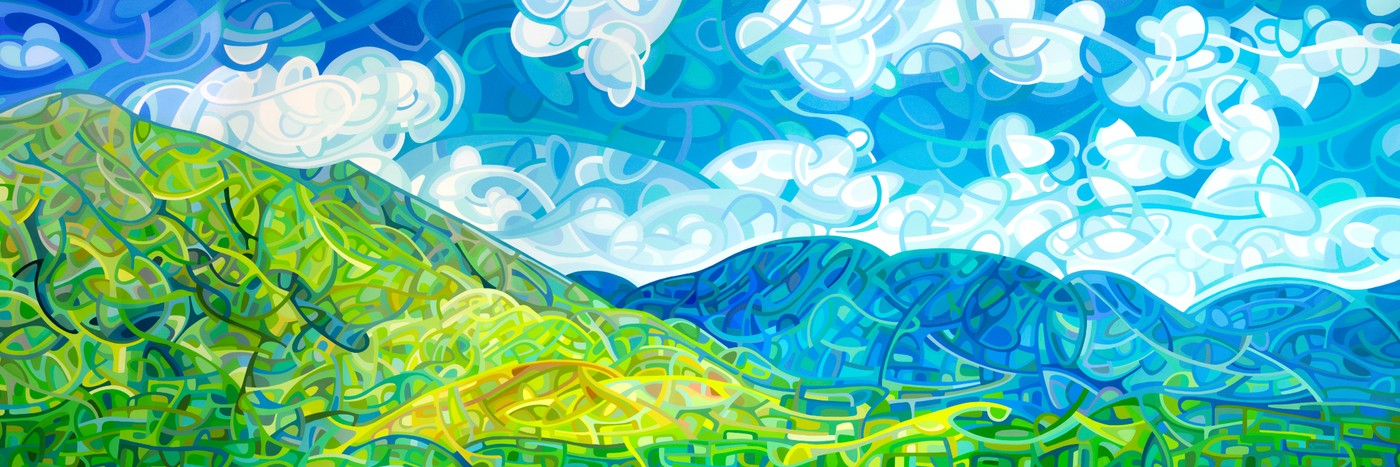
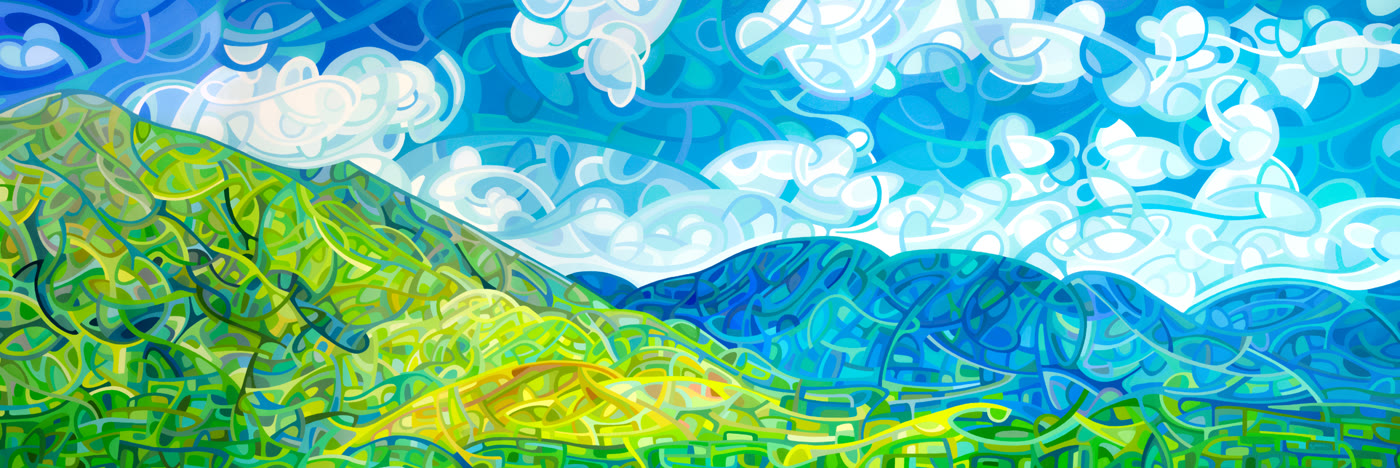
chore: web-optimize batch 3 2014-2017 (13 paintings) [v2.7.93]

diff --git a/html/2015-july-progression.html b/html/2015-july-progression.html
@@ -2,7 +2,7 @@
 <html lang="en">
 <head>
 <link rel="stylesheet" href="../css/style.css">
-<!-- ALP Design v2.7.88 | Detail Page | Generated: 2026-09-10 -->
+<!-- ALP Design v2.7.93 | Detail Page | Generated: 2026-09-10 -->
 <meta charset="UTF-8">
 <meta name="description" content="2015 July Progression () - In the height of Summer the many greens and blues of the forest collide gently on their inexorable march to the fiery reds an...">
 <meta property="og:title" content="July Progression - Mandy Budan Art">
@@ -59,7 +59,7 @@
 <main>
   <section class="detail">
   <div class="detail-grid">
-    <div class="detail-image"><img src="../images/2015-july-progression.jpg" alt="In the height of Summer the many greens and blues of the forest collide gently on their inexorable march to the fiery reds..."></div>
+    <div class="detail-image"><img src="../images/2015-july-progression_detail.jpg" alt="In the height of Summer the many greens and blues of the forest collide gently on their inexorable march to the fiery reds..."></div>
     <div class="detail-info">
       <h1>July Progression</h1>
       <div class="detail-meta">2015 - 12 x 16 - acrylic on wood<span class="soldbadge"></span></div>

diff --git a/html/2015-salmon-ridge.html b/html/2015-salmon-ridge.html
@@ -2,7 +2,7 @@
 <html lang="en">
 <head>
 <link rel="stylesheet" href="../css/style.css">
-<!-- ALP Design v2.7.88 | Detail Page | Generated: 2026-09-10 -->
+<!-- ALP Design v2.7.93 | Detail Page | Generated: 2026-09-10 -->
 <meta charset="UTF-8">
 <meta name="description" content="2015 Salmon Ridge () - A fall day high above a placid river. The muted colours on the far shore provide a gentle contrast to the trees on the ridge.">
 <meta property="og:title" content="Salmon Ridge - Mandy Budan Art">
@@ -59,7 +59,7 @@
 <main>
   <section class="detail">
   <div class="detail-grid">
-    <div class="detail-image"><img src="../images/2015-salmon-ridge.jpg" alt="A fall day high above a placid river. The muted colours on the far shore provide a gentle contrast to the trees on the rid..."></div>
+    <div class="detail-image"><img src="../images/2015-salmon-ridge_detail.jpg" alt="A fall day high above a placid river. The muted colours on the far shore provide a gentle contrast to the trees on the rid..."></div>
     <div class="detail-info">
       <h1>Salmon Ridge</h1>
       <div class="detail-meta">2015 - 11 x 14 - acrylic on wood<span class="soldbadge"></span></div>

diff --git a/html/2017-awakening.html b/html/2017-awakening.html
@@ -2,7 +2,7 @@
 <html lang="en">
 <head>
 <link rel="stylesheet" href="../css/style.css">
-<!-- ALP Design v2.7.88 | Detail Page | Generated: 2026-09-10 -->
+<!-- ALP Design v2.7.93 | Detail Page | Generated: 2026-09-10 -->
 <meta charset="UTF-8">
 <meta name="description" content="2017 Awakening () - The morning sun rises over the lake chasing the deep blues with peaches and pinks, reaching with warm tendrils into the corners of l...">
 <meta property="og:title" content="Awakening - Mandy Budan Art">
@@ -59,7 +59,7 @@
 <main>
   <section class="detail">
   <div class="detail-grid">
-    <div class="detail-image"><img src="../images/2017-awakening.jpg" alt="The morning sun rises over the lake chasing the deep blues with peaches and pinks, reaching with warm tendrils into the co..."></div>
+    <div class="detail-image"><img src="../images/2017-awakening_detail.jpg" alt="The morning sun rises over the lake chasing the deep blues with peaches and pinks, reaching with warm tendrils into the co..."></div>
     <div class="detail-info">
       <h1>Awakening</h1>
       <div class="detail-meta">2017 - 24 x 30 - acrylic on wood<span class="soldbadge"></span></div>

diff --git a/html/2014-after-the-rain.html b/html/2014-after-the-rain.html
@@ -2,7 +2,7 @@
 <html lang="en">
 <head>
 <link rel="stylesheet" href="../css/style.css">
-<!-- ALP Design v2.7.88 | Detail Page | Generated: 2026-09-10 -->
+<!-- ALP Design v2.7.93 | Detail Page | Generated: 2026-09-10 -->
 <meta charset="UTF-8">
 <meta name="description" content="2014 After The Rain () - The colours are richer, the light more intense after the spring rain sweeps through the forest. The new-found sun pulls jewel t...">
 <meta property="og:title" content="After the Rain - Mandy Budan Art">

diff --git a/html/2015-summer-medley.html b/html/2015-summer-medley.html
@@ -2,7 +2,7 @@
 <html lang="en">
 <head>
 <link rel="stylesheet" href="../css/style.css">
-<!-- ALP Design v2.7.88 | Detail Page | Generated: 2026-09-10 -->
+<!-- ALP Design v2.7.93 | Detail Page | Generated: 2026-09-10 -->
 <meta charset="UTF-8">
 <meta name="description" content="2015 Summer Medley () - A perfect day - soft warm sunlight, cool blue breezes, the steadfast reds in the trunk and the playful greens in the leaves come...">
 <meta property="og:title" content="Summer Medley - Mandy Budan Art">

diff --git a/html/2016-one-fine-day.html b/html/2016-one-fine-day.html
@@ -2,7 +2,7 @@
 <html lang="en">
 <head>
 <link rel="stylesheet" href="../css/style.css">
-<!-- ALP Design v2.7.88 | Detail Page | Generated: 2026-09-10 -->
+<!-- ALP Design v2.7.93 | Detail Page | Generated: 2026-09-10 -->
 <meta charset="UTF-8">
 <meta name="description" content="2016 One Fine Day () - One of those days where there's a taste of frost in the air, leaves crackle underfoot and the sun bounces off the many colours of...">
 <meta property="og:title" content="One Fine Day - Mandy Budan Art">

diff --git a/html/2015-last-call.html b/html/2015-last-call.html
@@ -2,7 +2,7 @@
 <html lang="en">
 <head>
 <link rel="stylesheet" href="../css/style.css">
-<!-- ALP Design v2.7.88 | Detail Page | Generated: 2026-09-10 -->
+<!-- ALP Design v2.7.93 | Detail Page | Generated: 2026-09-10 -->
 <meta charset="UTF-8">
 <meta name="description" content="2015 Last Call () - The setting sun paints the clouds deep oranges and pinks and pins them to a darkening indigo sky. Pierced below by the dark treeline...">
 <meta property="og:title" content="Last Call - Mandy Budan Art">

diff --git a/html/2014-early-riser.html b/html/2014-early-riser.html
@@ -2,7 +2,7 @@
 <html lang="en">
 <head>
 <link rel="stylesheet" href="../css/style.css">
-<!-- ALP Design v2.7.88 | Detail Page | Generated: 2026-09-10 -->
+<!-- ALP Design v2.7.93 | Detail Page | Generated: 2026-09-10 -->
 <meta charset="UTF-8">
 <meta name="description" content="2014 Early Riser () - A quiet winter forest welcomes the morning sun. Dark trees play amongst the snow shadows of purple and blue.">
 <meta property="og:title" content="Early Riser - Mandy Budan Art">

diff --git a/html/2014-emerald-moments.html b/html/2014-emerald-moments.html
@@ -2,7 +2,7 @@
 <html lang="en">
 <head>
 <link rel="stylesheet" href="../css/style.css">
-<!-- ALP Design v2.7.88 | Detail Page | Generated: 2026-09-10 -->
+<!-- ALP Design v2.7.93 | Detail Page | Generated: 2026-09-10 -->
 <meta charset="UTF-8">
 <meta name="description" content="2014 Emerald Moments () - Greens and blues tumble together down the mountain while clouds jostle with the blue sky above.">
 <meta property="og:title" content="Emerald Moments - Mandy Budan Art">

diff --git a/html/2015-ebb-and-flow.html b/html/2015-ebb-and-flow.html
@@ -2,7 +2,7 @@
 <html lang="en">
 <head>
 <link rel="stylesheet" href="../css/style.css">
-<!-- ALP Design v2.7.88 | Detail Page | Generated: 2026-09-10 -->
+<!-- ALP Design v2.7.93 | Detail Page | Generated: 2026-09-10 -->
 <meta charset="UTF-8">
 <meta name="description" content="2015 Ebb And Flow () - The rising sun hasn't reached the weland grasses yet; dark greens and blues hold their secrets close.">
 <meta property="og:title" content="Ebb and Flow - Mandy Budan Art">

diff --git a/html/2014-the-jester.html b/html/2014-the-jester.html
@@ -2,7 +2,7 @@
 <html lang="en">
 <head>
 <link rel="stylesheet" href="../css/style.css">
-<!-- ALP Design v2.7.88 | Detail Page | Generated: 2026-09-10 -->
+<!-- ALP Design v2.7.93 | Detail Page | Generated: 2026-09-10 -->
 <meta charset="UTF-8">
 <meta name="description" content="2014 The Jester () - Autumn's jester playfully drenched in red and gold mocks the coming cold even as night begins to fall.">
 <meta property="og:title" content="The Jester - Mandy Budan Art">

diff --git a/html/2016-triumvirate.html b/html/2016-triumvirate.html
@@ -2,7 +2,7 @@
 <html lang="en">
 <head>
 <link rel="stylesheet" href="../css/style.css">
-<!-- ALP Design v2.7.88 | Detail Page | Generated: 2026-09-10 -->
+<!-- ALP Design v2.7.93 | Detail Page | Generated: 2026-09-10 -->
 <meta charset="UTF-8">
 <meta name="description" content="2016 Triumvirate () - Moving in and out of the shadows, three flowers jostle for position in the dark pool.">
 <meta property="og:title" content="Triumvirate - Mandy Budan Art">
